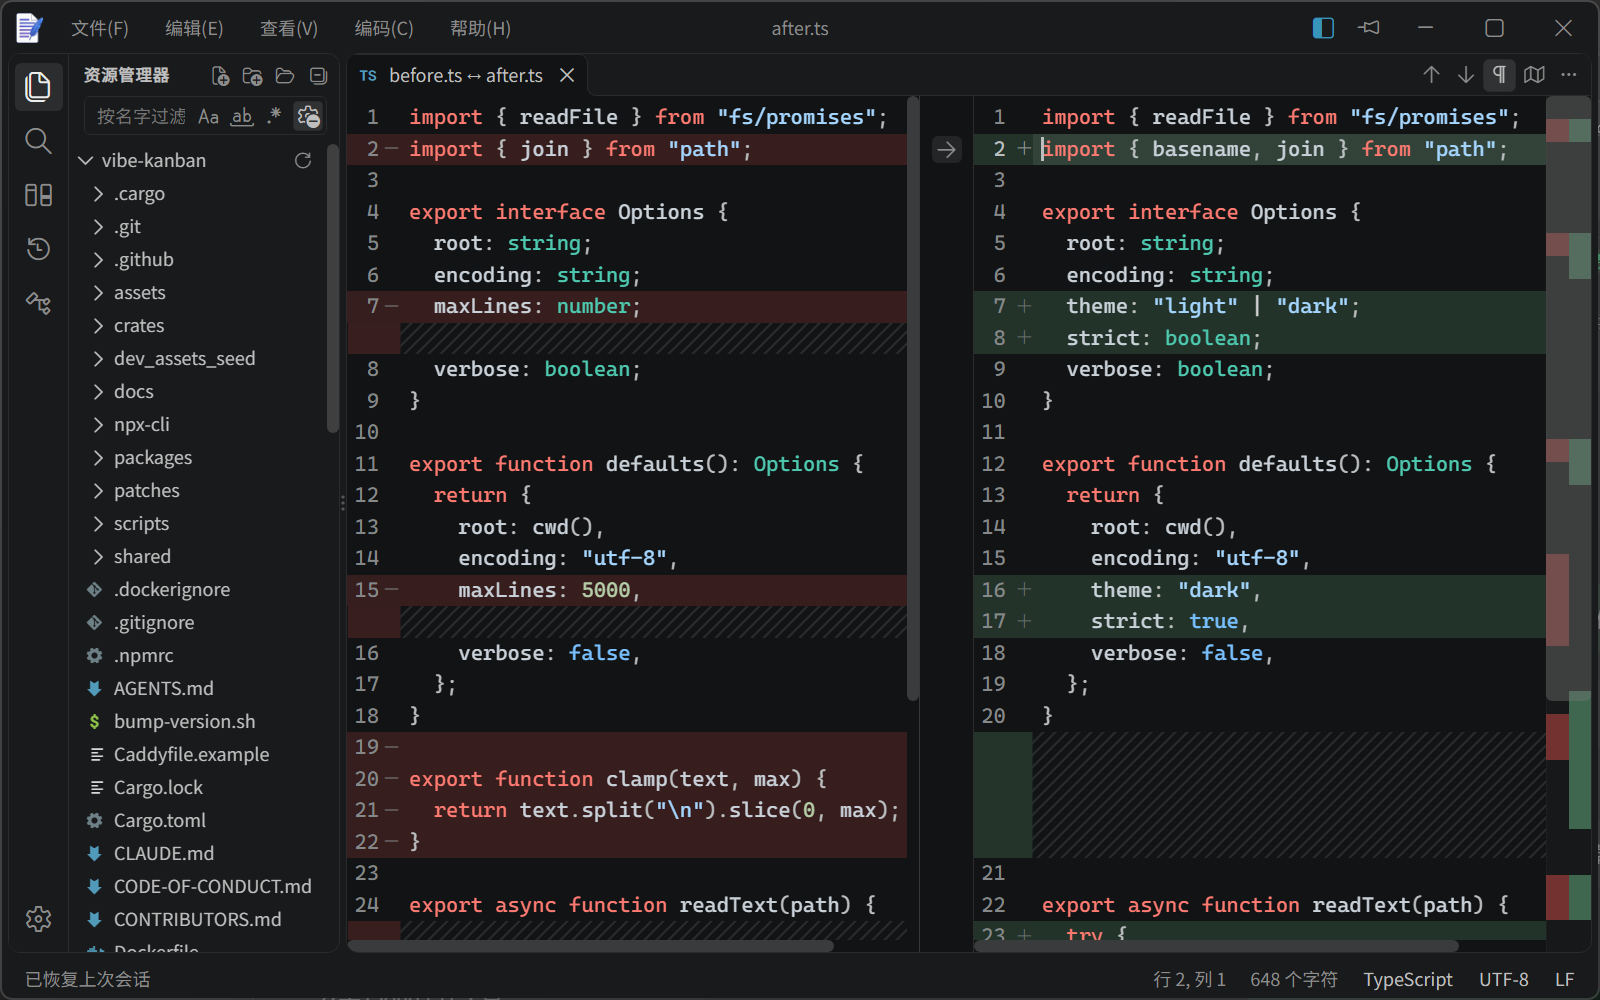
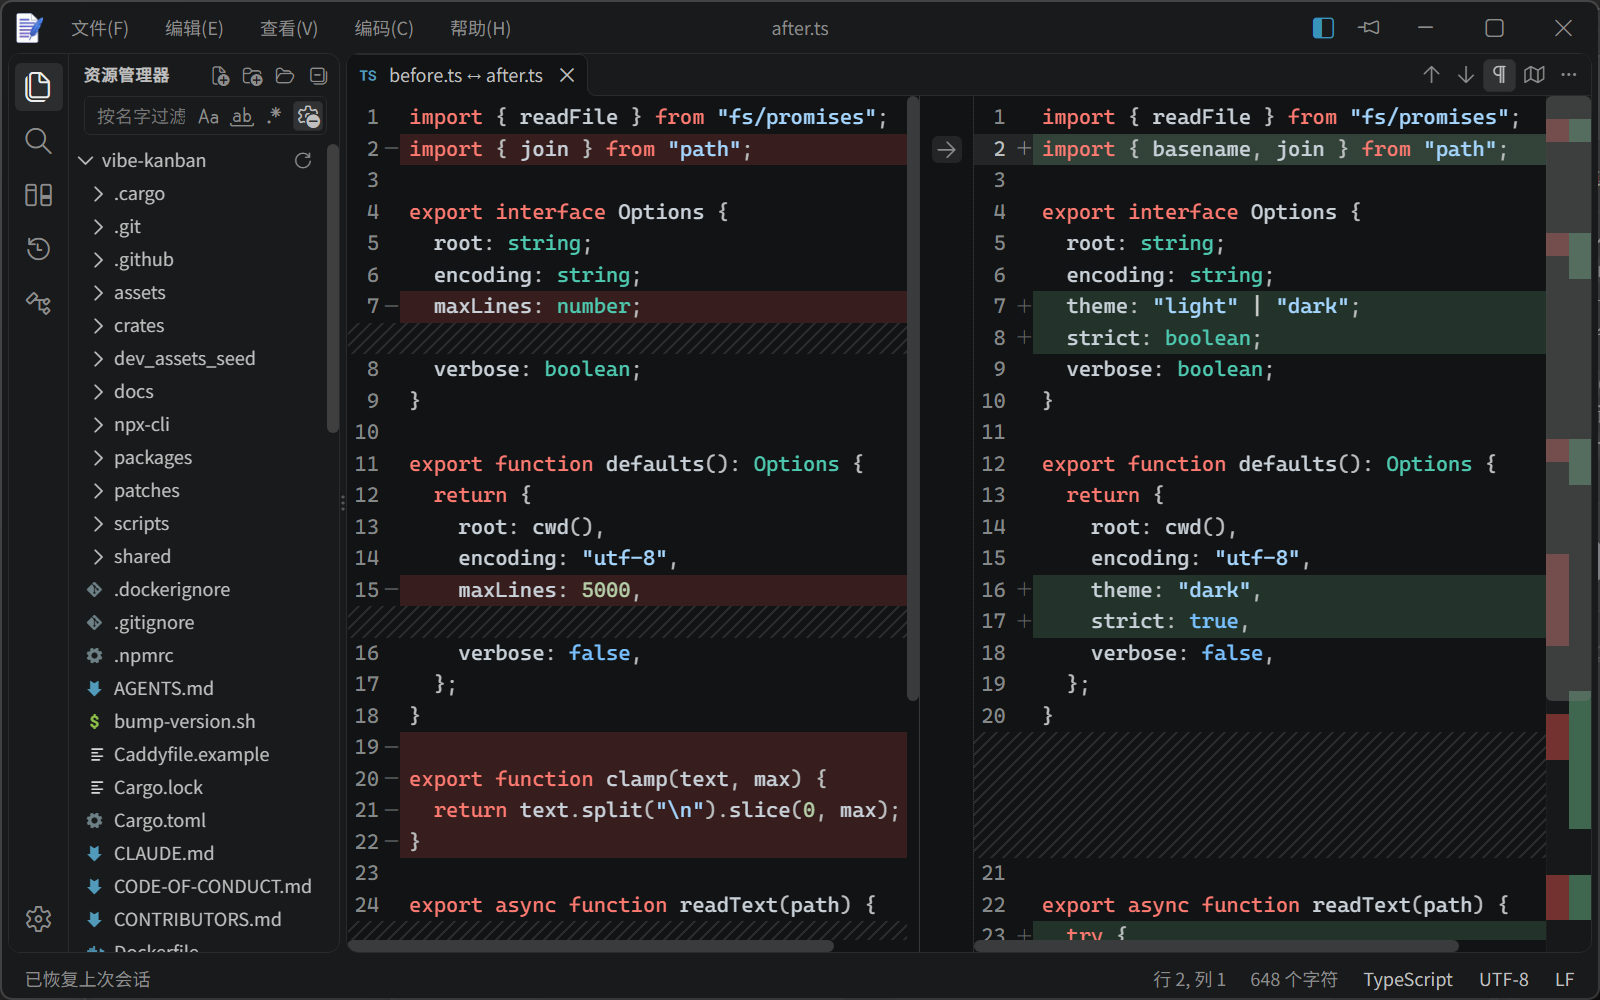
fix(diff): 行号槽不承载差异底色，色带只留在代码区
用户口径：VS Code 的行号槽没有差异背景色，只有正文有。核对上游后的结论写进了
diff.css 的注释 —— 上游其实会染 margin（`marginClassName: gutter-insert/delete`
+ style.css 的 background-color），只是 `diffEditorGutter.*` 默认 null、主题不覆盖时
那颗变量不输出，兜底链落到 `diffEditor.inserted/removedLineBackground`；本项目按
产品口径不复刻这一层。

- 撤掉 `.diff-gutter-*` 铺色规则与 `face.ts` 里 gutterLineClass 那一臂（类名不再发）
- 行号文字、`+` / `−` 记号与正文色带保持不变；占位缺口行改为同一条中性斜纹铺过
  行号槽，去掉 `--diff-gap-gutter` 与分侧类
- 回归测试改为钉「行号槽不带底色类 / 样式段不许有 .diff-gutter-* 规则」
- 刷新 docs/screenshots/diff.png

diff --git a/tests/diff-face.test.ts b/tests/diff-face.test.ts
@@ -8,7 +8,7 @@
 //   1) 纯函数 `sideLineMarks` / `sideGaps`：一块（`DiffBlock`）在**某一栏**落在哪些行、
 //      要在第几行之后补几行空位。它们只遍历 `blocks.ts` 交出来的块 ⇒ 与 4px 标注同源，
 //      这一层不看 DOM、不看 view，向量直接钉死。
-//   2) 装到 view 上的那一臂（`diffFace`）：行装饰 + 块 widget + 行号槽底色与记号。
+//   2) 装到 view 上的那一臂（`diffFace`）：行装饰 + 块 widget + 记号（行号槽不上色）。
 //   3) 样式段（`src/diff/diff.css`）：差异色只吃 `--diff-add` / `--diff-del`
 //      （VS Code 的分侧语义没有「修改行」），这一段里一个裸十六进制都不许出现。
 //
@@ -322,8 +322,8 @@ describe("B461 · diffFace：行底色、块起点的指示带类与对侧占位
     expect(gapEls()).toHaveLength(1);
     expect(
       gapEls()[0].getAttribute("class"),
-      "占位块 = 中性斜纹 + 本侧方向类（行号槽色条用）",
-    ).toBe("diff-gap diff-gap-insert");
+      "占位块 = 中性斜纹（不再带分侧类：行号槽不承载差异色）",
+    ).toBe("diff-gap");
     expect(rowOrder(view), "空位是插在 A 与 Z 之间的那一整块").toEqual(["line", "gap", "line"]);
     // ⚠ 简报这条写的是 `getBoundingClientRect().height > 0`，在 jsdom 里**不可能**绿
     // （无布局引擎 ⇒ 量出来恒为 0）。这一层的真主张是「占位块按行数 × 行高写了多高」⇒
@@ -340,18 +340,16 @@ describe("B461 · diffFace：行底色、块起点的指示带类与对侧占位
     );
   });
 
-  it("B462 · 左栏删行涂真行底色 + 行号槽底色 + Codicon `−` 记号（照 VS Code，不再有中线指示带）", () => {
+  it("B462 · 左栏删行涂真行底色 + Codicon `−` 记号（行号槽不上色，不再有中线指示带）", () => {
     const { view, lineEl, gapEls } = mountFace("original", del);
     expect(gapEls(), "删掉的行在左栏是**真行** ⇒ 这一侧不补位").toHaveLength(0);
     expect(lineEl(1).className).not.toContain("diff-line");
     expect(lineEl(2).className).toContain("diff-line-delete");
     expect(lineEl(3).className).toContain("diff-line-delete");
     expect(lineEl(2).className, "VS Code 没有块头横条这一层").not.toContain("diff-edge-top");
-    // 行号槽：VS Code 的 marginClassName（gutter-delete）+ delete-sign（Codicon.remove）。
-    expect(
-      view.dom.querySelectorAll(".cm-diffSigns .cm-gutterElement.diff-gutter-delete"),
-      "两行删除行各有一格带底色类",
-    ).toHaveLength(2);
+    // 行号槽不承载差异底色（产品口径）：上游的 `marginClassName: gutter-delete` 这一臂不再
+    // 复刻（取舍见 `diff.css` 那段注释）⇒ gutter 元素上连类名都没有，没有任何可上色的格子。
+    expect(view.dom.querySelectorAll(".cm-gutterElement.diff-gutter-delete")).toHaveLength(0);
     const signs = [...view.dom.querySelectorAll<HTMLElement>(".cm-diffSigns .diff-sign")];
     expect(
       signs.map((s) => [s.tagName, s.classList.contains("codicon-remove")]),
@@ -729,21 +727,22 @@ describe("B462 · 右缘差异概览（VS Code 的 diffOverview）", () => {
     expect(marksOf(host, "modified")).toHaveLength(1);
   });
 
-  it("B462 · 右栏行号槽也吃到同一份 gutter 底色类（左右各按自己那一侧）", () => {
+  it("B462 · 行号槽不带差异底色类：色带只留在代码行（行号与记号保持）", () => {
     const { left, right } = mountSurfacePair();
+    // 上游的 `marginClassName: gutter-insert / gutter-delete` 会染行号槽；本项目按产品口径
+    // 不复刻（见 `diff.css` 那段注释）⇒ gutter 元素上不该再有 `diff-gutter-*` 这类可上色的类。
+    expect(left.dom.querySelectorAll(".cm-gutterElement[class*='diff-gutter-']")).toHaveLength(0);
+    expect(right.dom.querySelectorAll(".cm-gutterElement[class*='diff-gutter-']")).toHaveLength(0);
     expect(
-      left.dom.querySelectorAll(".cm-lineNumbers .cm-gutterElement.diff-gutter-delete"),
-    ).toHaveLength(2);
-    expect(
-      right.dom.querySelectorAll(".cm-lineNumbers .cm-gutterElement.diff-gutter-insert"),
-      "右栏这一侧没有真行 ⇒ 没有新增色格",
-    ).toHaveLength(0);
+      left.dom.querySelectorAll(".cm-line.diff-line-delete").length,
+      "正文色带照旧（左栏两行删除）",
+    ).toBeGreaterThan(0);
   });
 
-  it("B462 · 右栏 4px 差异列也带底色类（行号与记号之间不留断口）", () => {
+  it("B462 · 4px 差异列照旧占位（列宽不变），但三列 gutter 都不带差异底色类", () => {
     // 生产路径（makeDiffInstance / makeTabState）的 gutter 次序是
     // 行号 24.4px → cm-diffGutter 4px（gutterDiff 空列）→ 记号 11px → 正文。
-    // 旧 CSS 只点名行号与记号两列 ⇒ 中间那 4px 透出 .cm-gutters 自己的底色，色带断开。
+    // 折叠槽关掉之后这几列的宽度也不该变（列宽与有没有标记无关），变的只有「谁上色」。
     const { right } = mountSurfacePair({ left: "A\nZ", right: "A\n增1\nZ" });
     expect(
       right.dom.querySelectorAll(".cm-gutter.cm-diffGutter"),
@@ -751,10 +750,14 @@ describe("B462 · 右缘差异概览（VS Code 的 diffOverview）", () => {
     ).toHaveLength(1);
     for (const gutter of [".cm-lineNumbers", ".cm-diffGutter", ".cm-diffSigns"]) {
       expect(
-        right.dom.querySelector(`${gutter} .cm-gutterElement.diff-gutter-insert`),
-        `${gutter} 这一列也得带同一个底色类`,
-      ).not.toBeNull();
+        right.dom.querySelector(`${gutter} .cm-gutterElement[class*='diff-gutter-']`),
+        `${gutter} 这一列不承载行底色类`,
+      ).toBeNull();
     }
+    expect(
+      right.dom.querySelectorAll(".cm-line.diff-line-insert"),
+      "色带只留在代码行",
+    ).toHaveLength(1);
   });
 });
 
@@ -916,13 +919,10 @@ describe("B461 · 差异段样式（Task 3 追加那一段）", () => {
     expect(s).not.toMatch(/#[0-9a-fA-F]{3,8}\b/);
     const tokens = new Set([...s.matchAll(/var\(\s*(--[\w-]+)/g)].map((m) => m[1]));
     // 分侧语义没有「修改行」⇒ 不该再有 `--diff-mod`；占位块的斜纹是外壳灰，走 `--fg-muted`。
-    // `--diff-gap-gutter` 只是把「该侧差异色」带到行号槽那一段的载体（叠 `--bg` 合成不透明），
-    // `--diff-gutter-w` 是实测槽宽。
+    // `--diff-gutter-w` 只是把占位块铺过行号槽的实测槽宽（槽本身不上色 ⇒ 没有第二颗配色变量）。
     expect([...tokens].sort()).toEqual([
-      "--bg",
       "--diff-add",
       "--diff-del",
-      "--diff-gap-gutter",
       "--diff-gutter-w",
       "--fg-muted",
     ]);
@@ -1103,21 +1103,10 @@ describe("B462 · 记号槽与右缘概览条样式", () => {
     expect(revert).toContain("height: 18px");
     expect(revert, "上游 .actions-container 的 4px 圆角").toContain("border-radius: 4px");
 
-    // 底色类会落到所有 gutter 上 ⇒ 按类铺满：右栏还多一条 4px 的 `cm-diffGutter`
-    // （`makeDiffInstance` 的 `gutterDiff()` 无基线 ⇒ 空列但恒占位），点名某几列就会在
-    // 行号槽与记号槽之间留下一条 4px 的底色断口。判据钉「不点名」这个口径本身。
-    const gutter = ruleBlock(
-      css(),
-      ".panel-host.is-diff .cm-gutterElement.diff-gutter-insert",
-      undefined,
-      true,
-    );
-    expect(gutter).toContain("color-mix(in srgb, var(--diff-add) 18%, transparent)");
-    expect(
-      css(),
-      "4px 差异列不许再被排除在外（旧写法点名 .cm-lineNumbers 与 .cm-diffSigns 两列）",
-    ).not.toContain(".cm-lineNumbers .cm-gutterElement.diff-gutter-insert");
-    expect(css(), "行背景与槽底色必须是同一颗 token、同一档 18%（同一颜色来源）").toContain(
+    // 行号槽不承载差异底色（产品口径；上游 `marginClassName` 会给，见 `diff.css` 那段注释）：
+    // 样式段里不许再有 `.diff-gutter-*` 这类给槽上色的规则 —— 有就说明那条口径被悄悄改回去了。
+    expect(css(), "行号槽不上色：不许有 .diff-gutter-* 规则").not.toContain(".diff-gutter-");
+    expect(css(), "行背景与主体色带必须是同一颗 token、同一档 18%（同一颜色来源）").toContain(
       "var(--diff-add) 18%",
     );
   });

diff --git a/src/diff/face.ts b/src/diff/face.ts
@@ -276,30 +276,25 @@ const faceSource = Facet.define<() => DiffFaceSource, () => DiffFaceSource>({
  * 只在「一文档行 = 一视觉行」时成立。VS Code 的 alignment view zone 存的是像素高度差
  * （`diffEditorViewZones.ts` 的 `originalHeightInPx` / `modifiedHeightInPx`），本实现同口径。
  *
- * ⚠ 缺口行**只有中性斜纹、行号槽没有对应色条**：VS Code 的 alignment view zone 会连
- * `marginDomNode` 一起染上 `gutter-delete` / `gutter-insert`，而 CM6 的块级 widget 只能
- * 落在 `.cm-content` 里、伸不进 gutter。样式段用 `--diff-gutter-w`（surface 按实测槽宽写的
- * 自定义属性）把这颗块向左铺过行号槽：左半段填该侧的差异色（VS Code `gutter-*` 的同一档），
- * 右半段仍是中性斜纹。**槽宽由实测来、不在这里量**（widget 不认识 view 的布局）。
+ * ⚠ 缺口行只有中性斜纹：VS Code 会把 alignment view zone 的 `marginDomNode` 一起染成
+ * `gutter-delete` / `gutter-insert`（`diffEditorViewZones.ts`），而本项目的行号槽不承载
+ * 差异色（取舍见 `diff.css`）。CM6 的块级 widget 只能落在 `.cm-content` 里、伸不进 gutter，
+ * 样式段用 `--diff-gutter-w`（surface 按实测槽宽写的自定义属性）把这颗块向左铺过行号槽，
+ * 行号槽那一段也铺同一条斜纹 —— 缺口行整行一个中性底，不是「左半差异色 + 右半斜纹」两截。
+ * **槽宽由实测来、不在这里量**（widget 不认识 view 的布局）。
  */
 export class DiffGapWidget extends WidgetType {
-  constructor(
-    readonly height: number,
-    /** 缺的是哪一栏的行：原稿侧缺 ⇒ `delete`、新稿侧缺 ⇒ `insert`（行号槽的色条跟着这一侧）。 */
-    readonly side: DiffSide,
-  ) {
+  constructor(readonly height: number) {
     super();
   }
 
   eq(other: WidgetType): boolean {
-    return (
-      other instanceof DiffGapWidget && other.height === this.height && other.side === this.side
-    );
+    return other instanceof DiffGapWidget && other.height === this.height;
   }
 
   toDOM(): HTMLElement {
     const el = document.createElement("div");
-    el.className = `diff-gap diff-gap-${this.side === "original" ? "delete" : "insert"}`;
+    el.className = "diff-gap";
     el.style.height = `${this.height}px`;
     return el;
   }
@@ -336,7 +331,7 @@ function buildFace(
   for (const gap of gaps) {
     if (!(gap.height > 0)) continue;
     const after = Math.min(Math.max(gap.afterLine, 0), doc.lines);
-    const widget = new DiffGapWidget(gap.height, side);
+    const widget = new DiffGapWidget(gap.height);
     // 块 widget 要落在线界上：`after` 行之后 ⇒ 挂在该行行尾（side > 0 = 那一行之后）；
     // 第 0 行之后（正文开头就缺行）⇒ 挂在第 1 行行首（side < 0 = 那一行之前）。
     ranges.push(
@@ -358,8 +353,8 @@ function buildFace(
  * 之间**，不是行号左边。CM6 的 gutter 按 DOM 次序排 ⇒ 本槽不许再写 `order: -1`。
  *
  * VS Code 用两个 margin：`linesDecorationsClassName` 画记号、`marginClassName` 给行号槽上色。
- * 这里对应两颗标记：带 `toDOM` 的管记号槽，带 `elementClass` 的管行号槽；两者由同一份
- * `sideLineMarks` 生成，行号永远一致。
+ * 本项目只复刻前者 —— 行号槽不承载差异色（上游确实会染，取舍见 `diff.css` 那一段），
+ * 记号与正文行底色仍由同一份 `sideLineMarks` 生成，行号永远一致。
  */
 class DiffSignMarker extends GutterMarker {
   constructor(readonly kind: "insert" | "delete") {
@@ -390,36 +385,10 @@ class DiffSignMarker extends GutterMarker {
   }
 }
 
-/**
- * 只给行号槽上色的那颗标记（不带 `toDOM`）。
- *
- * 记号槽自己已经有一颗带字形的标记；若把「底色类」也做在同一颗上，`gutterLineClass` 会让
- * 记号槽再把同一颗标记渲染一次（CM6 把 `markers` 与行级类标记并在一起），一行就出两道 `−`。
- * 拆成两颗：一颗管字形、一颗管类名，行号槽与记号槽各拿到自己需要的那一半。
- */
-class DiffGutterMarker extends GutterMarker {
-  readonly elementClass: string;
-
-  constructor(readonly kind: "insert" | "delete") {
-    super();
-    this.elementClass = `diff-gutter-${kind}`;
-  }
-
-  eq(other: GutterMarker): boolean {
-    return other instanceof DiffGutterMarker && other.kind === this.kind;
-  }
-
-  toString(): string {
-    return `gutter-${this.kind}`;
-  }
-}
-
 const insertSign = new DiffSignMarker("insert");
 const deleteSign = new DiffSignMarker("delete");
-const insertGutter = new DiffGutterMarker("insert");
-const deleteGutter = new DiffGutterMarker("delete");
 
-/** 这一栏的记号（行号与底色同一份来源，越界丢弃口径同上）。 */
+/** 这一栏的记号（与行底色同一份来源，越界丢弃口径同上）。 */
 function buildSigns(doc: Text, side: DiffSide, blocks: DiffBlock[]): RangeSet<GutterMarker> {
   const ranges: Range<GutterMarker>[] = [];
   for (const m of sideLineMarks(blocks, side)) {
@@ -430,25 +399,9 @@ function buildSigns(doc: Text, side: DiffSide, blocks: DiffBlock[]): RangeSet<Gu
   return RangeSet.of(ranges, true);
 }
 
-/** 行号槽（以及记号槽）的底色类；与记号同一份行号。 */
-function buildGutterClasses(
-  doc: Text,
-  side: DiffSide,
-  blocks: DiffBlock[],
-): RangeSet<GutterMarker> {
-  const ranges: Range<GutterMarker>[] = [];
-  for (const m of sideLineMarks(blocks, side)) {
-    if (m.line < 1 || m.line > doc.lines) continue;
-    const marker = m.kind === "delete" ? deleteGutter : insertGutter;
-    ranges.push(marker.range(doc.line(m.line).from));
-  }
-  return RangeSet.of(ranges, true);
-}
-
-/** 装饰那一臂的三份画法：整行底色 + 行号槽底类 + 记号槽字形。 */
+/** 装饰那一臂的两份画法：整行底色 + 记号槽字形（行号槽不上色，见 `diff.css`）。 */
 interface FaceValue {
   lines: RangeSet<Decoration>;
-  gutterClasses: RangeSet<GutterMarker>;
   signs: RangeSet<GutterMarker>;
 }
 
@@ -460,7 +413,6 @@ function buildFaceValue(
 ): FaceValue {
   return {
     lines: buildFace(doc, side, blocks, gaps),
-    gutterClasses: buildGutterClasses(doc, side, blocks),
     signs: buildSigns(doc, side, blocks),
   };
 }
@@ -483,15 +435,11 @@ const diffFaceField = StateField.define<FaceValue>({
     return tr.docChanged
       ? {
           lines: value.lines.map(tr.changes),
-          gutterClasses: value.gutterClasses.map(tr.changes),
           signs: value.signs.map(tr.changes),
         }
       : value;
   },
-  provide: (f) => [
-    EditorView.decorations.from(f, (v) => v.lines),
-    gutterLineClass.from(f, (v) => v.gutterClasses),
-  ],
+  provide: (f) => [EditorView.decorations.from(f, (v) => v.lines)],
 });
 
 /**
@@ -511,8 +459,8 @@ export function diffFace(side: DiffSide, source: () => DiffFaceSource): Extensio
     faceSource.of(source),
     diffFaceField,
     diffFoldField,
-    // 记号槽在 DOM 里排在行号之后，靠样式段的 `order: -1` 挪到行号左侧（VS Code 的
-    // `linesDecorationsClassName` 也在行号左侧），不必为排序再拆一颗 Compartment。
+    // 记号槽在 DOM 里排在行号之后（= 行号**右侧**），与 VS Code `EditorLayoutInfo` 的
+    // decorationsLeft 同侧 ⇒ 不必为排序再拆一颗 Compartment，也不许写 `order` 往回挪。
     gutter({
       class: "cm-diffSigns",
       markers: (view) => view.state.field(diffFaceField, false)?.signs ?? RangeSet.empty,

diff --git a/src/diff/diff.css b/src/diff/diff.css
@@ -232,19 +232,18 @@
   );
 }
 
-/* 行号槽底色（VS Code 的 `marginClassName: gutter-insert / gutter-delete`）：同一颗标记的
-   `elementClass` 由 `gutterLineClass` 落到**所有** gutter 元素上，这里就按类铺满，不再点名
-   某几列 —— 差异格的右栏还有一条 4px 的 `cm-diffGutter`（`makeDiffInstance` 的 `gutterDiff()`
-   无基线 ⇒ 空列但恒占位），漏掉它就是行号槽与记号槽之间一条 4px 的底色断口。
-   行号槽用 `background-color`（不是 image）：那一格没有当前行高亮的层叠战争。
-   （折叠槽在差异格里不渲染，见 `perfOfDiffInstance`；不必再为它留排除项。） */
-.panel-host.is-diff .cm-gutterElement.diff-gutter-insert {
-  background-color: color-mix(in srgb, var(--diff-add) 18%, transparent);
-}
-
-.panel-host.is-diff .cm-gutterElement.diff-gutter-delete {
-  background-color: color-mix(in srgb, var(--diff-del) 18%, transparent);
-}
+/* 行号槽**不承载差异底色**：色带只留在代码区，行号文字与 `+` / `−` 记号照旧。
+   ⚠ 上游不是这样，事实是上游会给行号槽上色：`registrations.contribution.ts` 的
+   `line-insert` / `line-delete` 都带 `marginClassName: 'gutter-insert' / 'gutter-delete'`，
+   `diffEditor/style.css` 给这两颗类写了 `background-color: var(--vscode-diffEditorGutter-*
+   LineBackground, var(--vscode-diffEditor-*LineBackground), ...)`；而 `diffEditorGutter.*`
+   在 `editorColors.ts` 注册时默认值是 `null`，`colorThemeCss.ts` 又只在 `getColor()` 拿得到
+   颜色时才输出那颗 CSS 变量 ⇒ 主题不覆盖时变量根本不存在，兜底链落到主题里定义了的
+   `diffEditor.inserted/removedLineBackground`（缺口行的 `marginDomNode: gutter-delete /
+   gutter-insert` 同理，见 `diffEditorViewZones.ts`）。即上游的行号槽与正文是同一条差异色。
+   本项目按产品口径改成「色带只留在代码区」：`.diff-line-*` 的底色不越界进行号 / 记号槽，
+   这里也就没有任何 `.diff-gutter-*` 规则 —— `face.ts` 那一臂连类名都不再发（`gutterLineClass`
+   只剩折叠槽在用）。 */
 
 /* `+` / `−` 记号槽：VS Code 的 `linesDecorationsClassName` 落在**行号右侧**的 line decorations
    栏（`EditorLayoutInfo` 的层次：glyphMarginLeft → lineNumbersLeft → decorationsLeft → contentLeft）。
@@ -275,42 +274,26 @@
    铺法照 `diffEditorViewZones.ts` 的 alignment view zone：内容区整行铺满（块级 widget 是
    `.cm-content` 的直接子元素，天然吃满内容宽），左缘再由下面那条负数偏移铺过行号槽。
    **槽宽是实测值**（`--diff-gutter-w`，surface 写）：CM6 的块 widget 伸不进 gutter，只能靠
-   负偏移盖过去 —— 这一半填该侧的差异色（VS Code 的 `marginDomNode: gutter-delete/insert`），
-   右半仍是中性斜纹，收口是硬边（与上游一样不圆角、不渐隐）。 */
+   负偏移盖过去。行号槽那一段也铺**同一条中性斜纹**、不填差异色（上游的 `marginDomNode`
+   会吃 `gutter-delete / gutter-insert`，本项目的行号槽不承载差异色，见上面那一段），
+   斜纹从左缘起算、一路铺到正文，缺口行整行一个中性底，收口是硬边（与上游一样不圆角、不渐隐）。 */
 .diff-gap {
   position: relative;
   z-index: 201;
   left: calc(-1 * var(--diff-gutter-w, 0px));
   width: calc(100% + var(--diff-gutter-w, 0px));
-  background-image:
-    linear-gradient(var(--diff-gap-gutter, transparent), var(--diff-gap-gutter, transparent)),
-    linear-gradient(
-      -45deg,
-      color-mix(in srgb, var(--fg-muted) 20%, transparent) 12.5%,
-      transparent 12.5%,
-      transparent 50%,
-      color-mix(in srgb, var(--fg-muted) 20%, transparent) 50%,
-      color-mix(in srgb, var(--fg-muted) 20%, transparent) 62.5%,
-      transparent 62.5%,
-      transparent 100%
-    );
-  background-size:
-    var(--diff-gutter-w, 0px) 100%,
-    8px 8px;
-  background-repeat: no-repeat, repeat;
-  background-position:
-    0 0,
-    var(--diff-gutter-w, 0px) 0;
-}
-
-.diff-gap-delete {
-  /* 叠在 `--bg` 上合成**不透明**色：VS Code 的 margin 色块底下一层没有斜纹，半透明会让
-     下层那层斜纹透上来，行号槽看着像「斜纹染了色」而不是一块纯色条。 */
-  --diff-gap-gutter: color-mix(in srgb, var(--diff-del) 18%, var(--bg));
-}
-
-.diff-gap-insert {
-  --diff-gap-gutter: color-mix(in srgb, var(--diff-add) 18%, var(--bg));
+  background-image: linear-gradient(
+    -45deg,
+    color-mix(in srgb, var(--fg-muted) 20%, transparent) 12.5%,
+    transparent 12.5%,
+    transparent 50%,
+    color-mix(in srgb, var(--fg-muted) 20%, transparent) 50%,
+    color-mix(in srgb, var(--fg-muted) 20%, transparent) 62.5%,
+    transparent 62.5%,
+    transparent 100%
+  );
+  background-size: 8px 8px;
+  background-repeat: repeat;
 }
 
 /* ---------- Task 7 · 折叠未改动区：折条 + 被折起来的行 ---------- */

diff --git a/src/diff/surface.ts b/src/diff/surface.ts
@@ -535,7 +535,8 @@ export function createDiffSurface(
    * 为什么要这一颗：VS Code 的 alignment view zone 会把 `marginDomNode` 一起染成
    * `gutter-delete` / `gutter-insert`，而 CM6 的块级 widget 只能落在 `.cm-content` 里。
    * 样式段拿这颗变量把占位块向左铺过行号槽（`diff.css` 的 `.diff-gap`），缺口那一行在
-   * 行号列里也就有色条了。槽宽随行数位数变，所以每次重画都重新量一遍。
+   * 行号列里也铺着同一条中性斜纹（本项目的行号槽不承载差异色，见 `diff.css` 那段取舍）。
+   * 槽宽随行数位数变，所以每次重画都重新量一遍。
    *
    * 量不到（jsdom / 还没进文档）就写 0：`calc(100% + 0px)` 退化成原样，不会把块撑歪。
    */
